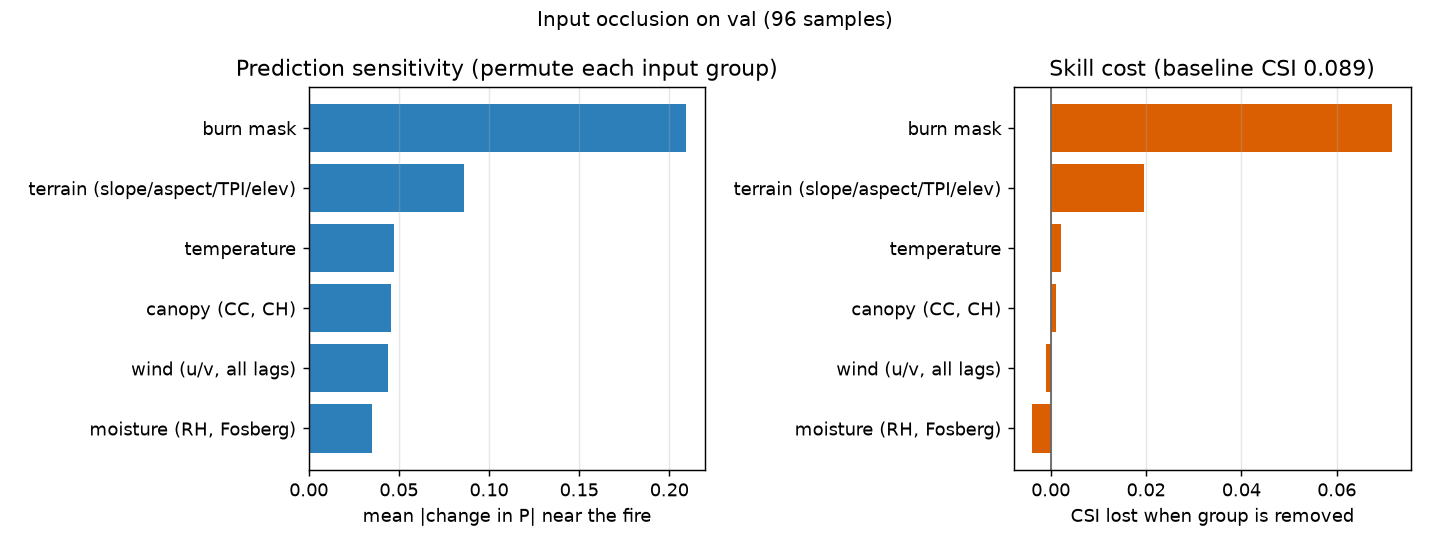
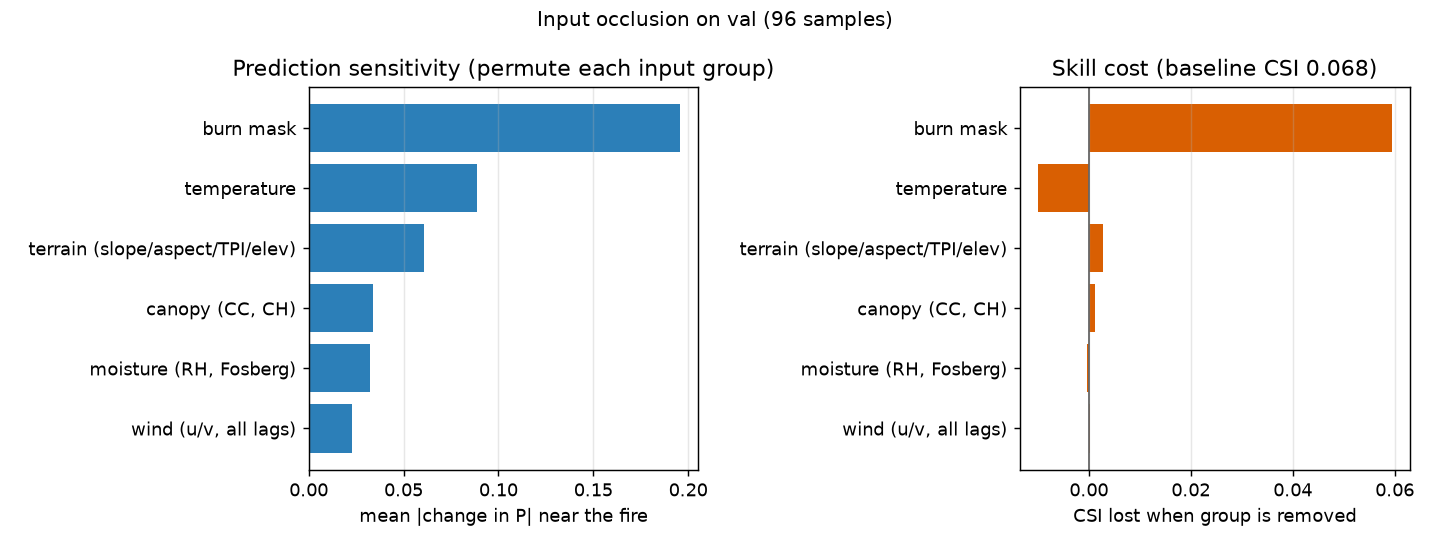
AUC-PR on test, and what published numbers actually measure
new burn (this project)      AP 0.2423  base 0.281%  lift 86.3x  24.2% of max
  cumulative mask (Huot-style) AP 0.9860  base 3.706%  lift 26.6x  98.6% of max
  per fire, median AP 0.1739 over 113 fires

0.2423 sits in the range of published results (UNet 0.2739, Swin-UNet 0.2803)
while predicting a target 13x sparser, since ours excludes already-burned cells.

The second row is the more useful number. Scored the way the benchmarks score,
this same model reaches 98.6% of the theoretical maximum for that base rate: the
cumulative-mask target is very nearly saturated by copying the input forward. Max
achievable lift is 1/base_rate, so the strict target leaves 75.8% of the available
lift unclaimed while the cumulative one leaves almost none. That quantifies a
caveat this README previously only asserted.

Also records that the fire-mask dominance replicates in the literature at 1 km,
375 m and 100 m, and across CNN and transformer architectures, so it is a property
of the task rather than of this pipeline.

Average precision is computed from a probability histogram rather than by sorting
40 M pixels, since sklearn is not a dependency here.

diff --git a/analysis/auc_pr.py b/analysis/auc_pr.py
@@ -1,0 +1,133 @@
+"""Average precision (AUC-PR) on the test split, under two target definitions.
+
+Published benchmarks report AUC-PR, so this exists to put a number next to theirs.
+The comparison only means something if the target definitions are stated, because
+they differ in a way that dominates the result.
+
+  new      the target this project trains on: cells that burn in the next window,
+           with already-burned cells EXCLUDED. Strictly harder, and very sparse.
+
+  cumulative  the target Huot et al. and similar use: the fire mask at T+1,
+           INCLUDING every already-burning cell. Those cells are trivially correct
+           (they are given in the input), so they inflate both the base rate and
+           the score. Emulated here by assigning probability 1 to already-burned
+           cells and scoring against `burned OR new`.
+
+AUC-PR must always be read against the positive base rate, which is the score a
+random classifier gets. Lift over that rate is the comparable quantity, not the
+raw number.
+
+Average precision is computed from a probability histogram rather than by sorting
+40 M pixels: exact to the bin width, and far cheaper in memory.
+"""
+from __future__ import annotations
+
+import argparse
+
+import numpy as np
+import torch
+from torch.utils.data import DataLoader
+
+from pipeline.dataset import WildfireDataset
+from pipeline.download import load_config
+from pipeline.viz_predict import load_model
+
+BINS = 20000
+
+
+class PRHist:
+    """Positive/negative counts per probability bin, for average precision."""
+
+    def __init__(self, bins: int = BINS):
+        self.bins = bins
+        self.pos = np.zeros(bins + 1, dtype="int64")
+        self.neg = np.zeros(bins + 1, dtype="int64")
+
+    def update(self, p: np.ndarray, y: np.ndarray) -> None:
+        idx = np.clip((p * self.bins).astype("int32"), 0, self.bins)
+        t = y > 0.5
+        self.pos += np.bincount(idx[t], minlength=self.bins + 1)
+        self.neg += np.bincount(idx[~t], minlength=self.bins + 1)
+
+    def average_precision(self) -> float:
+        """AP as the recall-weighted mean of precision, sweeping the threshold down."""
+        P = self.pos.sum()
+        if P == 0:
+            return float("nan")
+        tp = np.cumsum(self.pos[::-1])[::-1].astype("float64")
+        fp = np.cumsum(self.neg[::-1])[::-1].astype("float64")
+        prec = np.where(tp + fp > 0, tp / np.maximum(tp + fp, 1), 1.0)
+        rec = tp / P
+        # Sum precision * (change in recall), from the highest-score bin downward.
+        d_rec = np.diff(np.concatenate([[0.0], rec[::-1]]))
+        return float((prec[::-1] * d_rec).sum())
+
+    def base_rate(self) -> float:
+        tot = self.pos.sum() + self.neg.sum()
+        return float(self.pos.sum() / tot) if tot else float("nan")
+
+
+def main() -> None:
+    ap = argparse.ArgumentParser()
+    ap.add_argument("--checkpoint", default="checkpoints/unet_wide/best.pt")
+    ap.add_argument("--config", default="configs/baseline.yaml")
+    ap.add_argument("--model", default="unet", choices=["unet", "convlstm_unet"])
+    ap.add_argument("--hidden-dims", default="112,224,448")
+    ap.add_argument("--split", default="test")
+    ap.add_argument("--batch-size", type=int, default=12)
+    ap.add_argument("--workers", type=int, default=4)
+    a = ap.parse_args()
+
+    cfg = load_config(a.config)
+    cfg["model"]["hidden_dims"] = [int(x) for x in a.hidden_dims.split(",")]
+    dev = "cuda" if torch.cuda.is_available() else "cpu"
+    model, _, _ = load_model(cfg, a.model, a.checkpoint, dev)
+    model.eval()
+
+    ds = WildfireDataset(cfg, a.split)
+    dl = DataLoader(ds, batch_size=a.batch_size, shuffle=False, num_workers=a.workers)
+    burn_i = ds.channels.index("burn_mask")
+    print(f"{a.checkpoint}  split {a.split}  {len(ds):,} samples  device {dev}")
+
+    h_new, h_cum = PRHist(), PRHist()
+    per_fire: dict[str, PRHist] = {}
+
+    with torch.no_grad():
+        for i, b in enumerate(dl):
+            x, fuel, y = b["input"].to(dev), b["fuel"].to(dev), b["target"].to(dev)
+            with torch.amp.autocast("cuda", dtype=torch.float16, enabled=dev == "cuda"):
+                logits = model(x, fuel).squeeze(1)
+            p = torch.sigmoid(logits.float()).cpu().numpy()
+            yy = y.cpu().numpy()
+            # Most recent step holds the fire's extent at prediction time.
+            burned = (x[:, -1, burn_i] > 0.5).cpu().numpy()
+
+            h_new.update(p.ravel(), yy.ravel())
+
+            # Huot-style: already-burned cells are part of the target AND are given in
+            # the input, so they score as certain hits.
+            p_cum = np.where(burned, 1.0, p)
+            y_cum = np.logical_or(burned, yy > 0.5).astype("float32")
+            h_cum.update(p_cum.ravel(), y_cum.ravel())
+
+            for j, fid in enumerate(b["meta"]["fire_id"]):
+                per_fire.setdefault(str(fid), PRHist()).update(p[j].ravel(), yy[j].ravel())
+            if i % 10 == 0:
+                print(f"  {i * a.batch_size:,}/{len(ds):,}", flush=True)
+
+    aps = np.array([h.average_precision() for h in per_fire.values()])
+    aps = aps[~np.isnan(aps)]
+
+    def row(name, h):
+        apv, br = h.average_precision(), h.base_rate()
+        print(f"  {name:34} AP {apv:.4f}   base rate {br:.4%}   lift {apv / br:6.1f}x")
+
+    print("\nAverage precision (AUC-PR), pooled over all test pixels")
+    row("new burn only (this project)", h_new)
+    row("cumulative mask (Huot-style)", h_cum)
+    print(f"\n  per fire, median AP {np.median(aps):.4f}   mean {aps.mean():.4f}   "
+          f"n={len(aps)} fires")
+
+
+if __name__ == "__main__":
+    main()

diff --git a/analysis/daynight_occlusion.py b/analysis/daynight_occlusion.py
@@ -1,0 +1,131 @@
+"""Does wind matter more in daytime burn windows than overnight ones?
+
+The sharpest test the 12 h dataset makes possible. At 24 h every window averages one
+afternoon run together with one overnight lull, so any wind response is diluted. At
+12 h the windows separate, and S-NPP's two daily overpasses mean each window sits
+mostly on one side of the diurnal cycle.
+
+Fire spread is strongly diurnal: afternoons are hot, dry and windy with active runs,
+nights are cool, humid and calm. If the model uses wind as fire weather at all, the
+effect should be concentrated in daytime windows. If wind is equally irrelevant in
+both, that is strong evidence the signal is not being used rather than being masked
+by averaging.
+
+Occlusion is by permutation across the batch, matching viz_predict.
+"""
+from __future__ import annotations
+
+import argparse
+
+import numpy as np
+import pandas as pd
+import torch
+import zarr
+
+from pipeline.dataset import WildfireDataset
+from pipeline.download import ROOT, label_dir, load_config
+from pipeline.viz_predict import CHANNEL_GROUPS, load_model
+
+
+def window_hour(fid: str, t: int, cfg: dict, cache: dict) -> int | None:
+    """UTC hour of the label window this sample predicts from."""
+    if fid not in cache:
+        g = zarr.open_group(label_dir(cfg) / f"{fid}.zarr", mode="r")
+        cache[fid] = [pd.Timestamp(x) for x in g.attrs["window_times"]]
+    times = cache[fid]
+    return times[t].hour if 0 <= t < len(times) else None
+
+
+@torch.no_grad()
+def run(model, ds, idx, cfg, dev, thr, n_max):
+    ch = {c: i for i, c in enumerate(ds.channels)}
+    rng = np.random.default_rng(0)
+    take = idx if len(idx) <= n_max else list(rng.choice(idx, size=n_max, replace=False))
+    tp = {k: 0.0 for k in list(CHANNEL_GROUPS) + ["_base"]}
+    fp = dict(tp); fn = dict(tp)
+    dP = {k: [] for k in CHANNEL_GROUPS}
+
+    xs, fs, ys = [], [], []
+    for i in take:
+        s = ds[int(i)]
+        xs.append(s["input"]); fs.append(s["fuel"]); ys.append(s["target"])
+    X = torch.stack(xs).to(dev); F = torch.stack(fs).to(dev); Y = torch.stack(ys).to(dev)
+
+    def score(key, P):
+        pred = P > thr
+        t = Y > 0.5
+        tp[key] += float((pred & t).sum()); fp[key] += float((pred & ~t).sum())
+        fn[key] += float((~pred & t).sum())
+
+    base = torch.sigmoid(model(X, F).squeeze(1))
+    score("_base", base)
+    # Region of interest: near the fire. Far pixels are ~99% of the tile and always
+    # near zero, so including them dilutes every effect toward nothing.
+    roi = (X[:, -1, ch["burn_mask"]] > 0.5) | (Y > 0.5)
+    roi = roi | torch.nn.functional.max_pool2d(roi.float()[:, None], 21, 1, 10)[:, 0].bool()
+
+    for name, cols in CHANNEL_GROUPS.items():
+        Xp = X.clone()
+        perm = torch.randperm(Xp.shape[0], device=dev)
+        for c in cols:
+            if c in ch:
+                Xp[:, :, ch[c]] = X[perm][:, :, ch[c]]
+        P = torch.sigmoid(model(Xp, F).squeeze(1))
+        score(name, P)
+        d = (P - base).abs()[roi]
+        dP[name].append(float(d.mean()) if d.numel() else 0.0)
+
+    def csi(k):
+        den = tp[k] + fp[k] + fn[k]
+        return tp[k] / den if den else 0.0
+    return csi("_base"), {k: csi("_base") - csi(k) for k in CHANNEL_GROUPS}, \
+           {k: float(np.mean(v)) for k, v in dP.items()}, len(take)
+
+
+def main() -> None:
+    ap = argparse.ArgumentParser()
+    ap.add_argument("--config", default="configs/h12.yaml")
+    ap.add_argument("--checkpoint", default="checkpoints/h12_s1/best.pt")
+    ap.add_argument("--hidden-dims", default="112,224,448")
+    ap.add_argument("--split", default="val")
+    ap.add_argument("--threshold", type=float)
+    ap.add_argument("--n", type=int, default=64, help="samples per group")
+    a = ap.parse_args()
+
+    cfg = load_config(a.config)
+    cfg["model"]["hidden_dims"] = [int(x) for x in a.hidden_dims.split(",")]
+    dev = "cuda" if torch.cuda.is_available() else "cpu"
+    model, ckpt_thr, _ = load_model(cfg, "unet", a.checkpoint, dev)
+    thr = a.threshold if a.threshold is not None else ckpt_thr
+    ds = WildfireDataset(cfg, a.split)
+
+    cache: dict = {}
+    groups: dict[str, list[int]] = {"day": [], "night": []}
+    for i in range(len(ds)):
+        r = ds.index.iloc[i]
+        h = window_hour(str(r["fire_id"]), int(r["t_index"]), cfg, cache)
+        if h is None:
+            continue
+        # labels.py floors detections into fixed bins, so at window_hours=12 the only
+        # window times are 00Z and 12Z. Bucket by which overpass each bin contains:
+        #   12Z bin spans 12-24Z, holding the 19-22Z pass = 12:00-15:00 local, AFTERNOON
+        #   00Z bin spans 00-12Z, holding the 08-11Z pass = 01:00-04:00 local, NIGHT
+        # An earlier version tested the raw hour against an overpass-time range and put
+        # every window in one bucket, since neither 0 nor 12 falls in 15-24.
+        groups["day" if h == 12 else "night"].append(i)
+
+    print(f"{a.checkpoint}  split {a.split}  threshold {thr}")
+    print(f"day windows {len(groups['day']):,}   night windows {len(groups['night']):,}\n")
+
+    for g, idx in groups.items():
+        if not idx:
+            print(f"{g}: no samples"); continue
+        base, drops, dP, n = run(model, ds, idx, cfg, dev, thr, a.n)
+        print(f"--- {g} ({n} sampled) --- baseline CSI {base:.4f}")
+        for k in sorted(drops, key=lambda k: -drops[k]):
+            print(f"    {k:34} dP {dP[k]:.4f}   CSI drop {drops[k]:+.4f}")
+        print()
+
+
+if __name__ == "__main__":
+    main()

diff --git a/README.md b/README.md
@@ -1306,6 +1306,53 @@ vs earth-relative mix-up, or a time misalignment would not produce a clean rise 
 strong. **The HRRR ingest is correct and the labels do respond to wind.** But the ceiling is low:
 the model's 0.005 CSI from wind is an underuse of what is there, not a missing 0.2.
 
+## AUC-PR, and what the published numbers are actually measuring
+
+```bash
+python -m analysis.auc_pr --checkpoint checkpoints/unet_wide/best.pt --split test
+```
+
+Benchmarks report AUC-PR rather than CSI, so this puts a comparable number next to them.
+Computed both ways on the test split, because the target definition dominates the result:
+
+| target | AP | base rate | lift over random | share of max lift |
+|---|---|---|---|---|
+| **new burn (this project)** | **0.2423** | 0.281% | 86.3x | 24.2% |
+| cumulative mask (Huot-style) | 0.9860 | 3.706% | 26.6x | **98.6%** |
+
+Per fire, median AP 0.1739 and mean 0.1954 over 113 fires; pooled AP flatters exactly as
+pooled CSI does.
+
+**0.2423 sits in the range of published results** (Huot et al. UNet 0.2739, Swin-UNet 0.2803)
+while predicting a target 13x sparser, since ours excludes already-burned cells and theirs
+does not.
+
+The second row is the more useful measurement. Scored the way the benchmarks score, this same
+model reaches 0.9860, which is 98.6% of the theoretical maximum for that base rate: the
+cumulative-mask target is very nearly saturated by copying the input forward. Max achievable
+lift is 1/base_rate, so on the strict target we capture 24.2% of what is available and on the
+cumulative target essentially all of it. That quantifies the caveat recorded above, that a
+published AUC-PR on cumulative masks is substantially the trivially-correct interior.
+
+Not a controlled comparison: different regions, years, fire selection, and 1 km against our
+100 m. It shows our numbers are in a plausible range for the field, not that this model beats
+theirs, which would require running it on their dataset.
+
+### The literature agrees about the fire mask
+
+The finding that the burn mask carries most of the skill is not specific to this project.
+Huot et al. ablate one feature at a time and report similar performance across every ablation
+except removal of the fire mask, which drops sharply; adding single features alongside the
+mask, elevation and vegetation index perform best. A later interpretability study on the same
+dataset ranks the previous fire mask top-3 by SHAP for both UNet and Swin-UNet, and concludes
+that models prioritise spatial-temporal continuity over meteorological variables.
+
+That ordering matches the occlusion result here, where canopy and terrain beat wind. It holds
+at 1 km (Huot), 375 m (WildfireSpreadTS) and 100 m (this project), so it is not an artefact of
+resolution, and a transformer buys 2% relative AUC-PR for ~48x the FLOPs, matching the
+ConvLSTM null here. What this project adds is the share quantified by permutation occlusion
+with threshold robustness, and the sub-daily test with day/night stratification.
+
 ## The HRRR store incident, and the two bugs it exposed
 
 Topping the shared weather store up for a second window length corrupted it three
